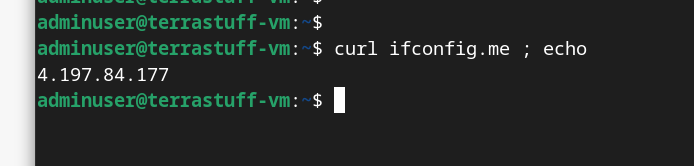
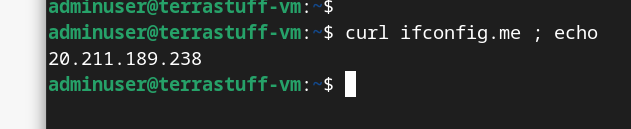
Fix NAT GW associations

Changed region(s): [[0.0301, 0.0, 0.9635, 1.0]]

diff --git a/docs/walkthrough3.md b/docs/walkthrough3.md
@@ -42,3 +42,7 @@ SSH to both VMs and show ifconfig.me
 <pre>
 <img align="left" src="../images/03-ifconfig-1.png"></br>
 </pre>
+
+<pre>
+<img align="left" src="../images/03-ifconfig-2.png"></br>
+</pre>
